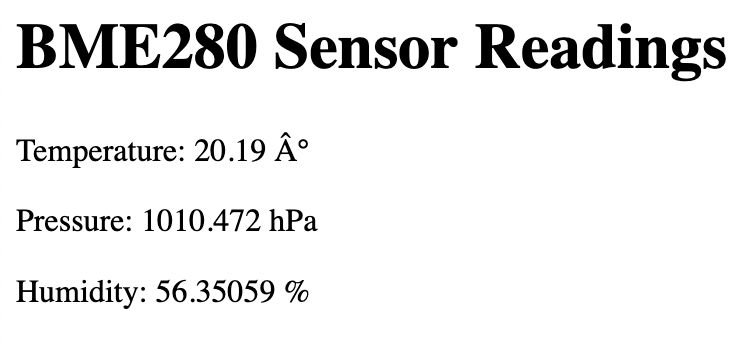
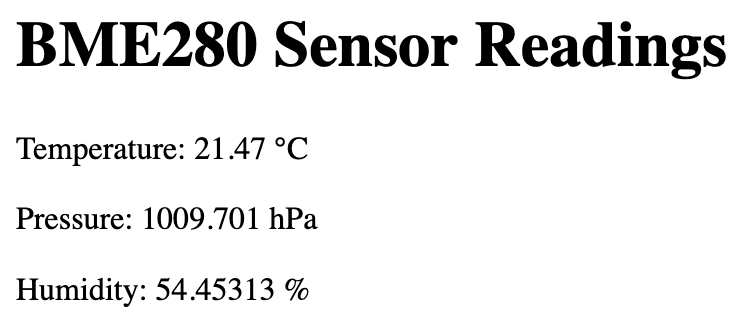
Bug fix

diff --git a/mpython/main.py b/mpython/main.py
@@ -2,12 +2,12 @@ from machine import Pin, SoftI2C
 import network, time, socket
 from bme280 import BME280
 
-SSID = "WIFINAME" #change to your WiFi name
-PW = "PASSWORD" #change to your WiFi password
+SSID = "TELUS4051"
+PW = "2asfminxz3"
 
 # Initialize the BME280 sensor
 try:
-    i2c = SoftI2C(sda=Pin(14), scl=Pin(15)) # Change the PINs to reflect your board
+    i2c = SoftI2C(sda=Pin(14), scl=Pin(15))
     bme = BME280(i2c=i2c)
 except Exception as e:
     print("Error initializing BME280 sensor: ", e)
@@ -29,10 +29,10 @@ def handle_request(conn):
     try:
         request = conn.recv(1024)
         print('Content = %s' % str(request))
-        response = 'HTTP/1.1 200 OK\r\nContent-Type: text/html\r\n\r\n'
+        response = 'HTTP/1.1 200 OK\r\nContent-Type: text/html; charset=UTF-8\r\n\r\n'
         response += '<html><body>'
         response += '<h1>BME280 Sensor Readings</h1>'
-        response += "<p>Temperature: {} °</p>".format(bme.temperature())
+        response += "<p>Temperature: {} °C</p>".format(bme.temperature())
         response += '<p>Pressure: {} hPa</p>'.format(bme.pressure())
         response += '<p>Humidity: {} %</p>'.format(bme.humidity())
         response += '</body></html>'
@@ -45,10 +45,10 @@ def handle_request(conn):
 try:
     s = socket.socket(socket.AF_INET, socket.SOCK_STREAM)
     s.setsockopt(socket.SOL_SOCKET, socket.SO_REUSEADDR, 1)
-    s.bind(('192.168.1.103', 8000)) # Change that to whatever IP:Port your board will be set to
+    s.bind(('192.168.1.103', 8000))
     s.listen(5)
 
-    print('Web server running on 192.168.1.103:8000') # Change that to whatever IP:Port your board will be set to
+    print('Web server running on 192.168.1.103:8000')
 
     # Listen for incoming client requests and handle them with the handle_request function
     while True:
